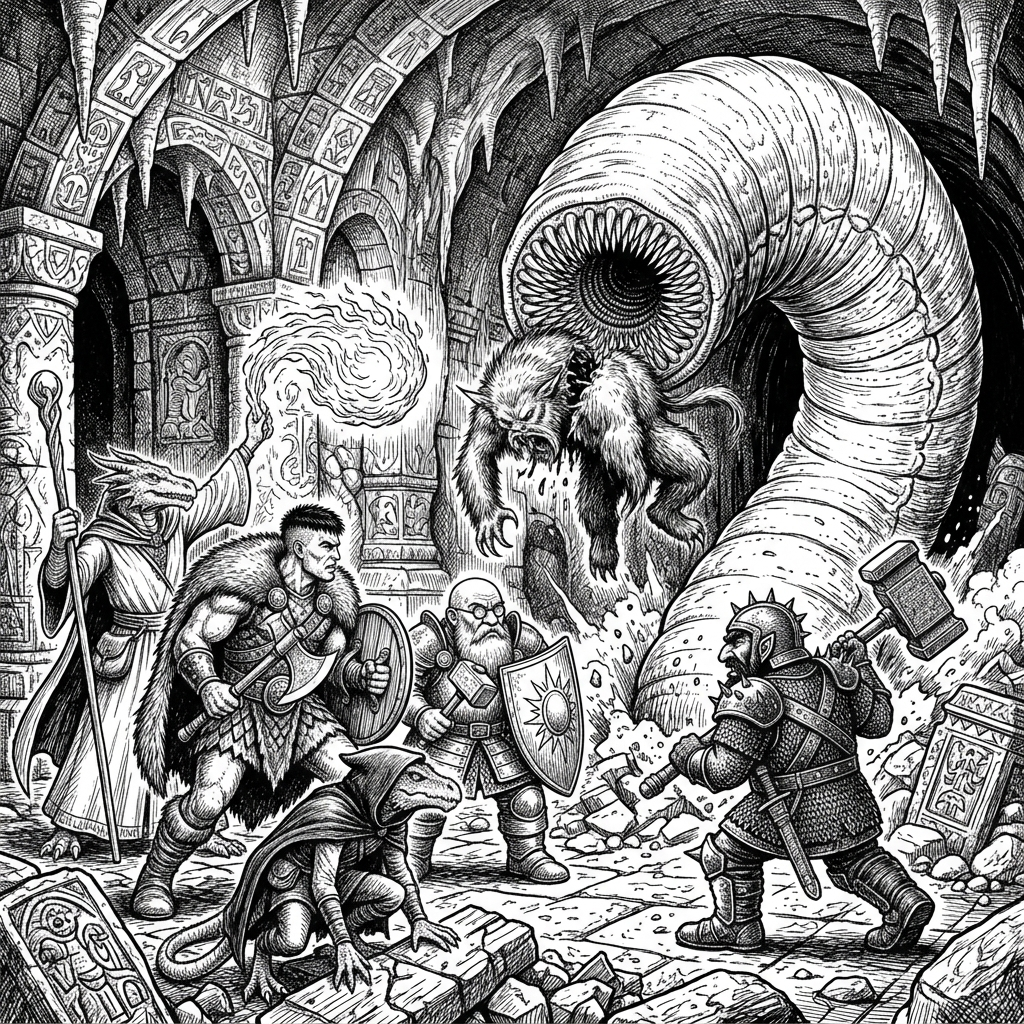
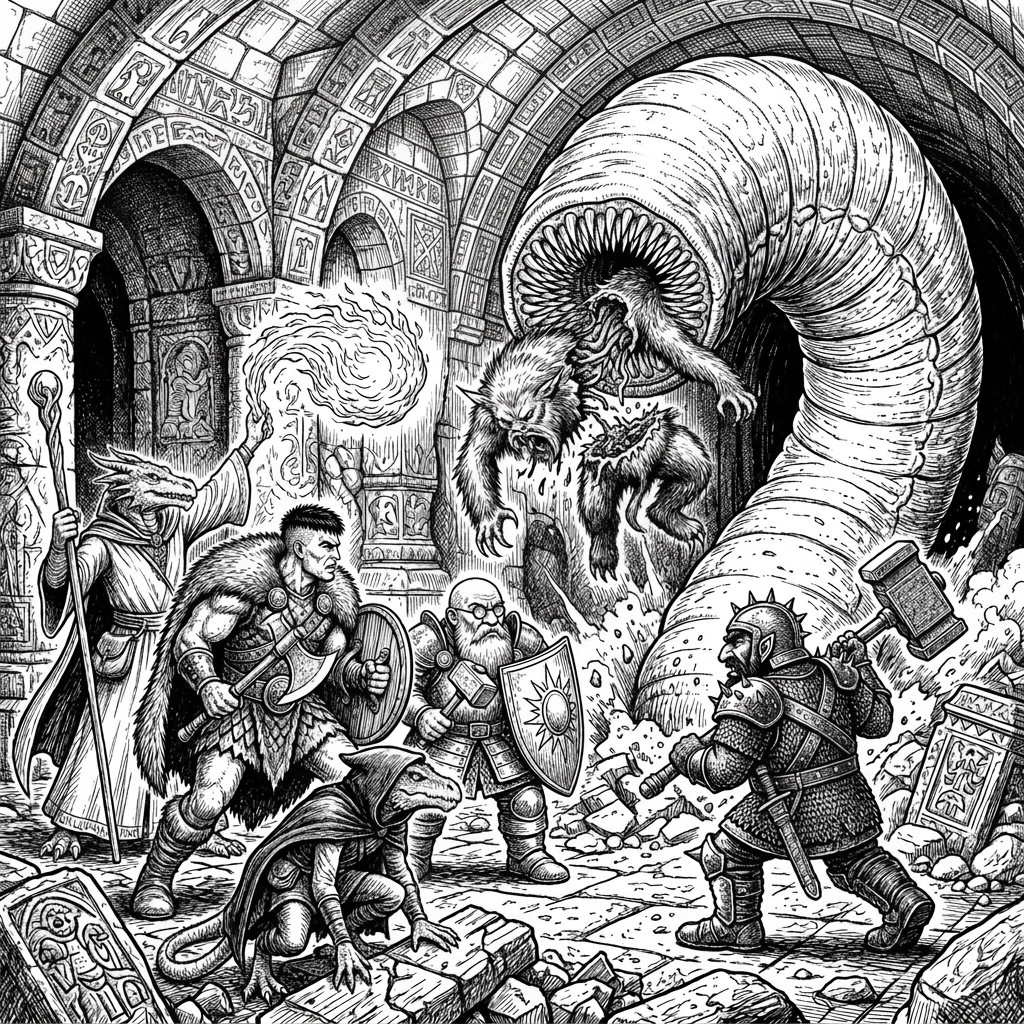
style: update Grey Burrower scene plate to remove ceiling stalactites and leave carved dwarven stone masonry

Changed region(s): [[0.0, 0.0, 1.0, 1.0], [0.5938, 0.875, 0.6562, 0.9062], [0.375, 0.375, 0.4062, 0.4062]]

diff --git a/src/lib/build-info.ts b/src/lib/build-info.ts
@@ -1,3 +1,3 @@
 // Generated by scripts/write-build-info.mjs — do not edit
-export const SITE_EDITION = "3043485";
-export const SITE_BUILT_AT = "2026-07-25T11:42:48.597Z";
+export const SITE_EDITION = "29f83dc";
+export const SITE_BUILT_AT = "2026-07-25T11:43:59.400Z";
